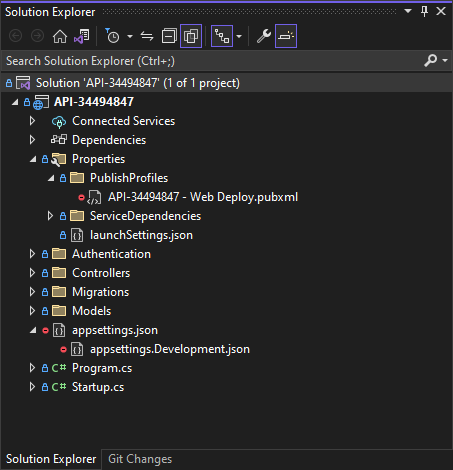
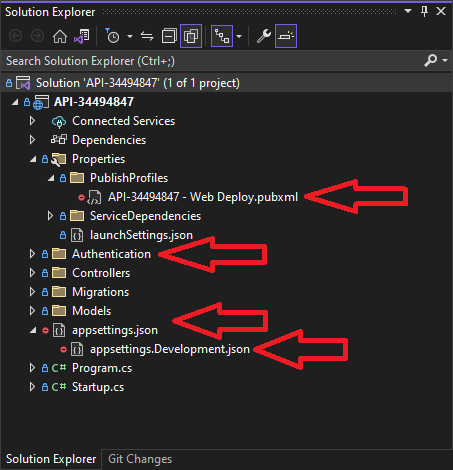
README

Changed region(s): [[0.3709, 0.6255, 0.7726, 0.8043], [0.6799, 0.3872, 0.9272, 0.4766], [0.34, 0.5064, 0.5872, 0.5957]]

diff --git a/README.md b/README.md
@@ -29,11 +29,19 @@
 	The Categories controller has two additional methods as requested, a method where the user GETs all devices based on a category ID being parsed in and a method where the user GETs the number of 
 	zones that are associated to a specific category based on the category ID being parsed in. For the Zones controller, one additional method has also been added as requested, the method
 	GETs all devices within a specific zone based on the zone ID being parsed in. Then finally, the last requirement, each controller contains a method that checks if an
-	item exists before trying to edit or delete the item <br /><br />
+	item exists before trying to edit or delete the item. <br /><br />
 	Categories Controller: <br />
 	<br /><img src="img/categoriesendpoints.png" alt="API-34494847 categories image"/><br />
 	Devices Controller: <br />
 	<br /><img src="img/devicesendpoints.png" alt="API-34494847 devices image"/><br />
 	Zones Controller: <br />
 	<br /><img src="img/zonesendpoints.png" alt="API-34494847 zones image"/><br />
+</p>
+
+<h2>Security in the API</h2>
+<p>
+	For the implemented security the student has made use of JWT (JSON Web Token) authentication. Which basically means that the user needs a token (admin token in the student's API) to access any of the endpoints in the API
+	as discussed previously "How to use the API". The student also has made extensive use of the .gitignore file to hide any type of file that contains credentials and sensitive information.
+	This includes files such as appsettings.json, azure publish profiles etc: <br /
+	<br /><img src="img/.gitignore.png" alt="API-34494847 .gitignore image"/><br />
 </p>
